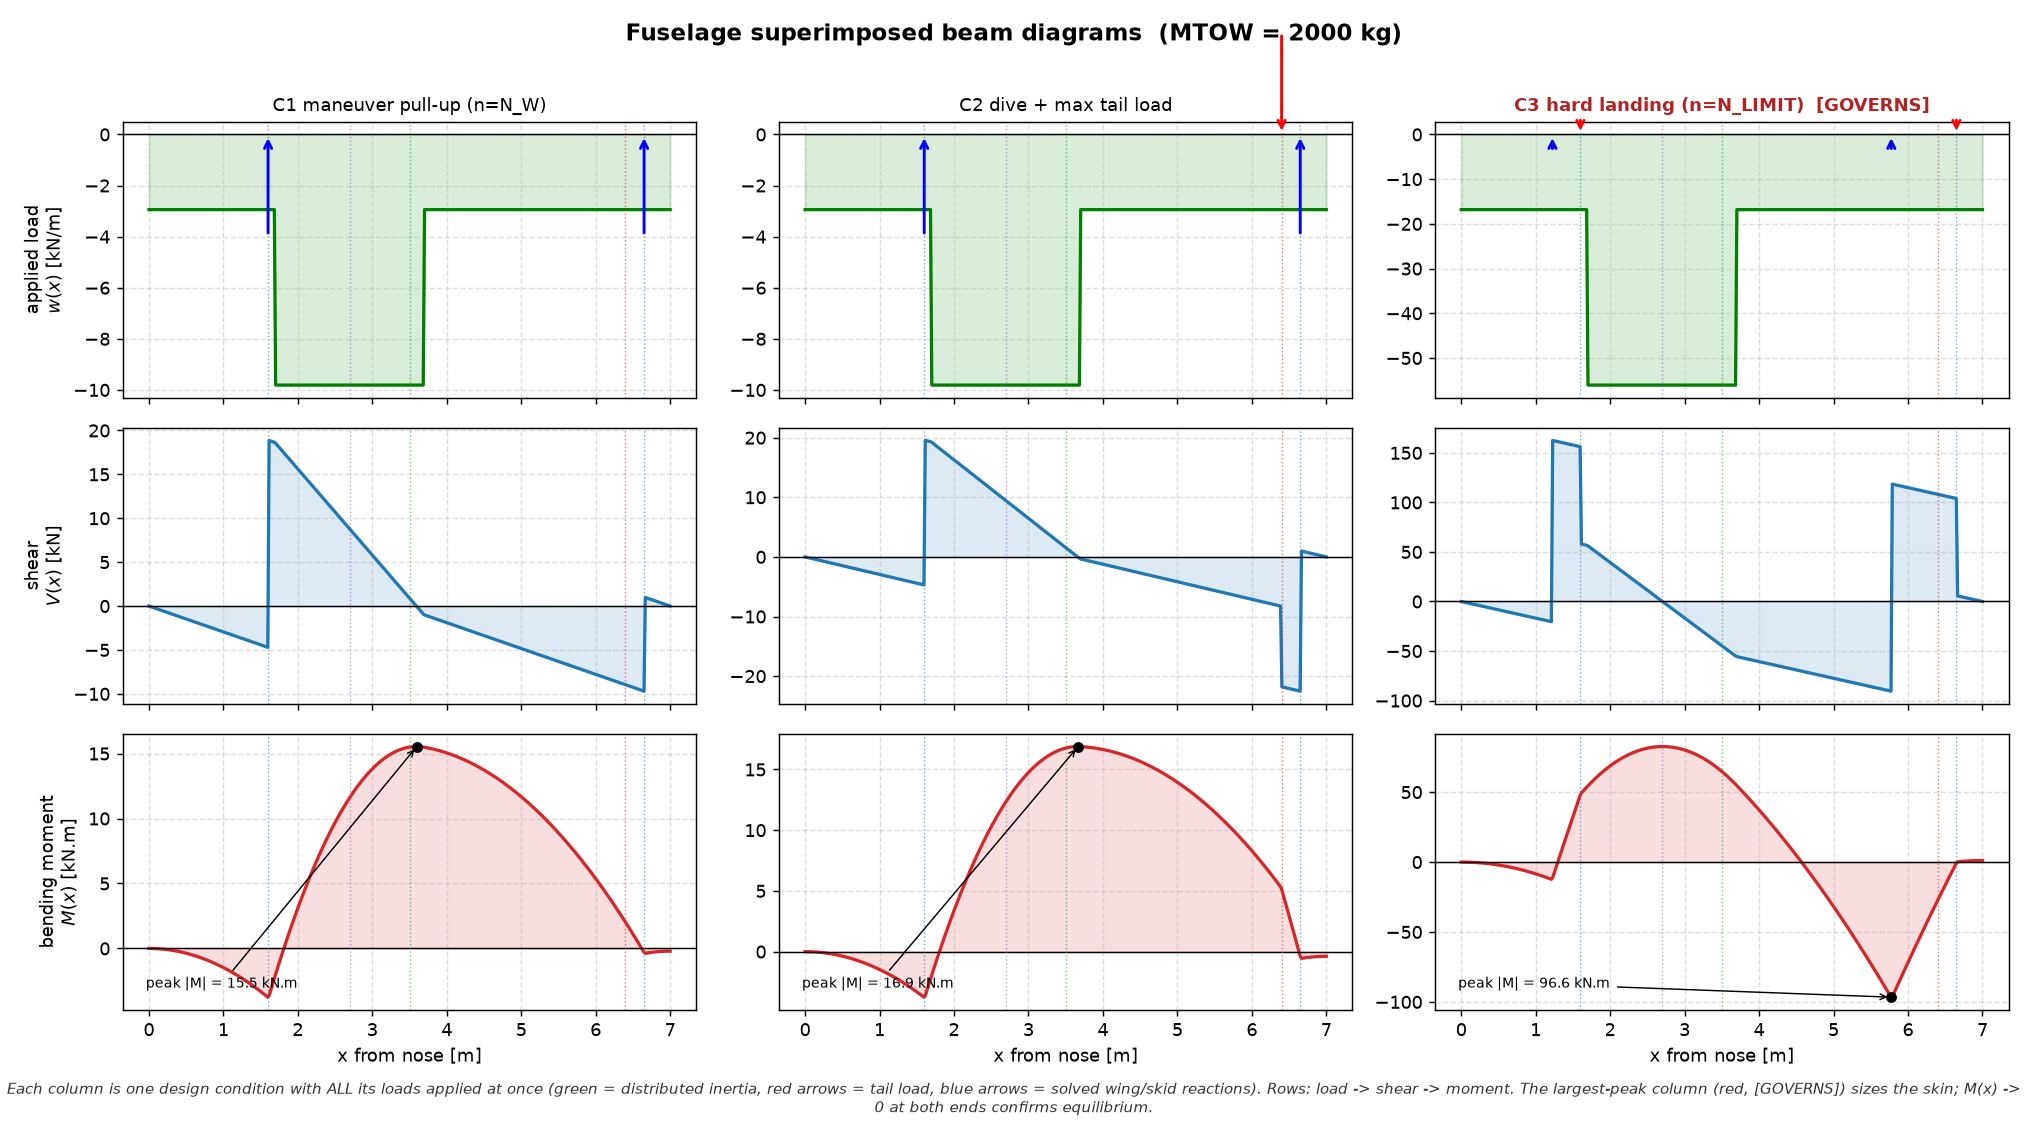
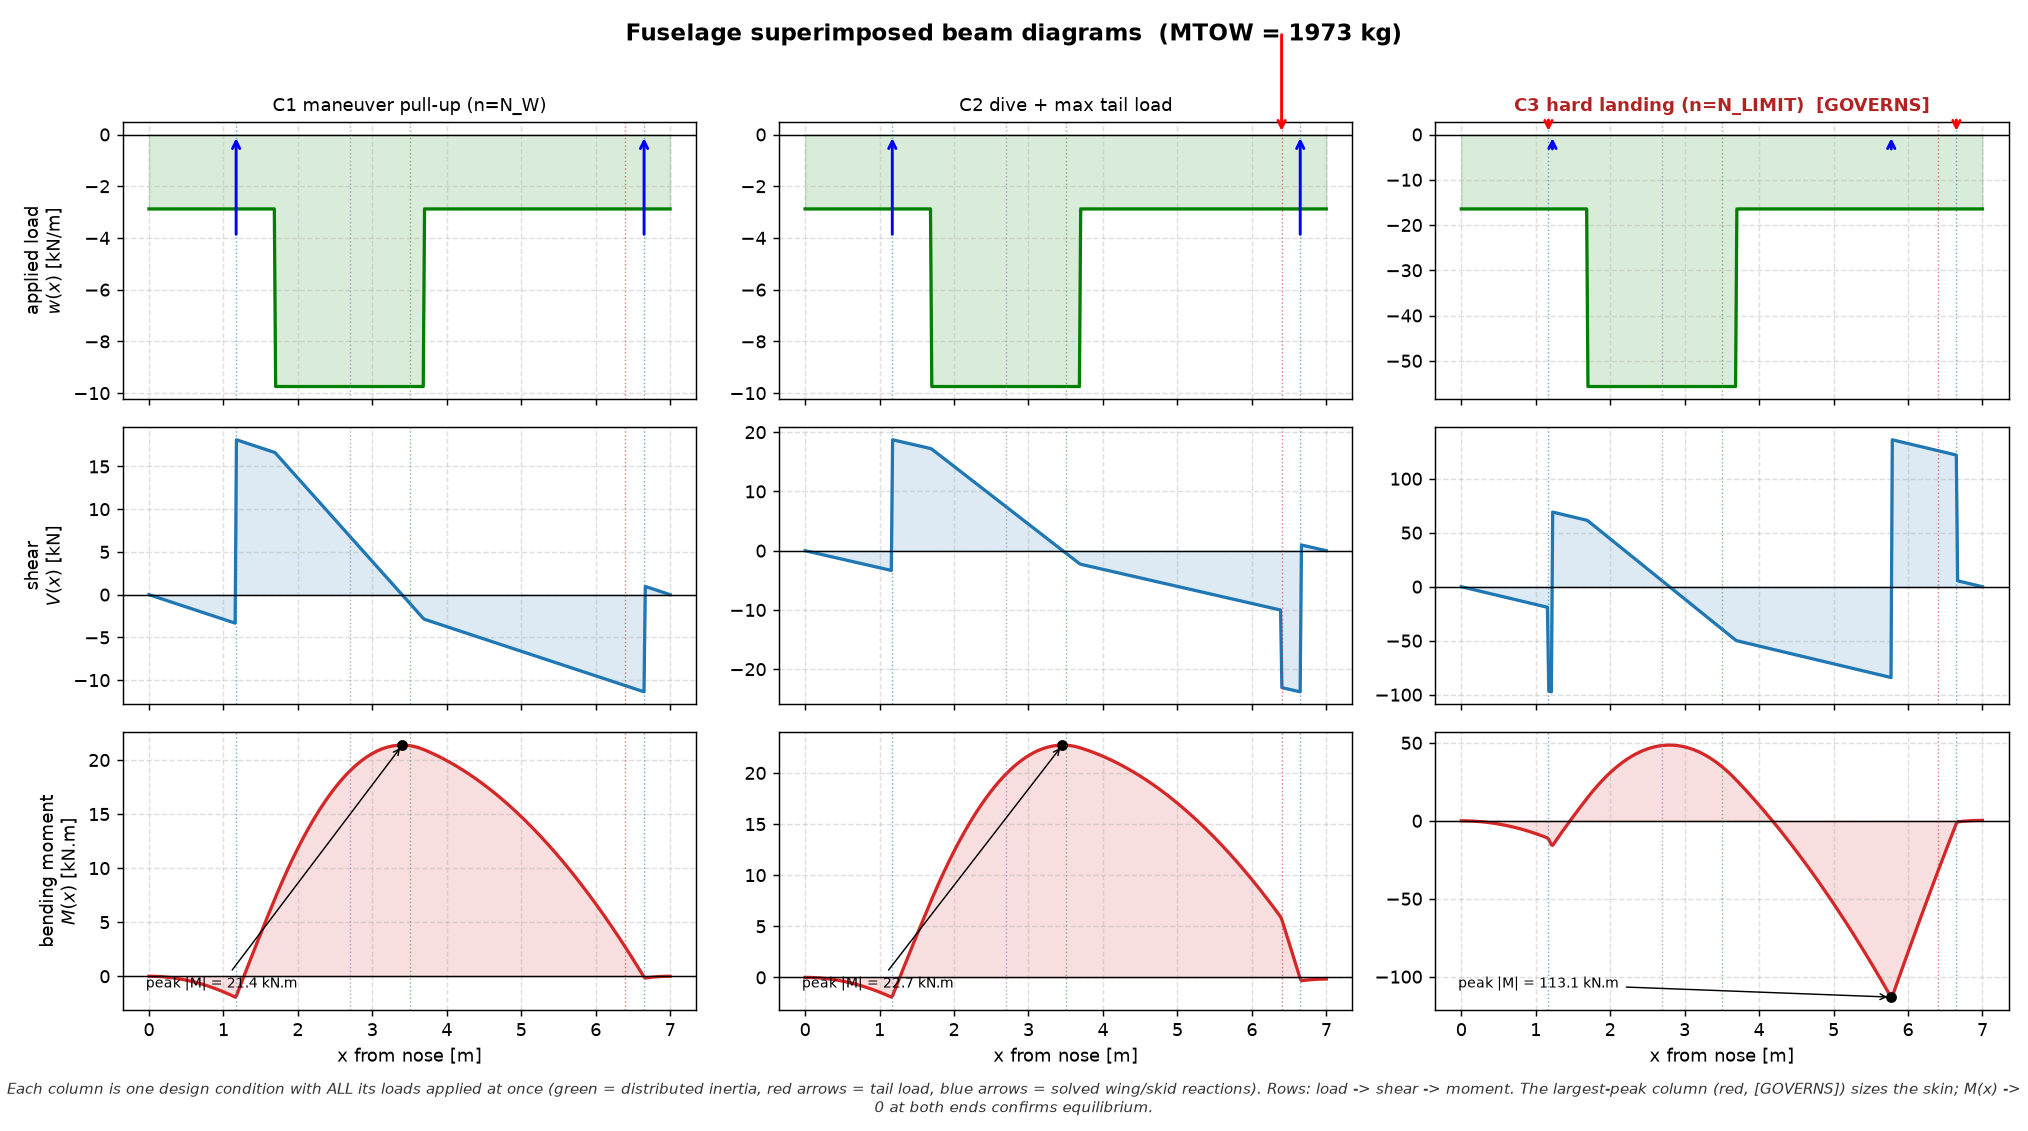
corrected diagrams hell ye

diff --git a/parameters.py b/parameters.py
@@ -799,11 +799,11 @@ _VTOL_ROTOR_RW_OFFSET     = 1.35    # [m] x_vtol_rotor_rw      - x_ac_aw
 # IMPORT-TIME SEEDS. The optimiser path overrides them per-evaluation via the
 # mmoi_overrides bridge in stability_eval.evaluate_stability so they track the
 # wing-LEMAC masters; the seeds equal the baseline geometry for standalone callers.
-X_WING_F     = AerodynamicCoefficients.x_ac_fw                       # [m]  front-wing CG ~ x_LEMAC (vd: 1.0) + 0.4*MAC  PLACEHOLDER
+X_WING_F     = WingGeometry.x_LEMAC_fw + _AC_OFFSET_FW               # [m]  front-wing AC station, DERIVED from the (override-aware) LEMAC master (mirrors stability_eval._resolve_dependents) so standalone callers (fuselage sizing, MMOI) track x_LEMAC_fw instead of the stale baseline seed
 Z_WING_F     = WingGeometry.z_w_fw       # [m]  low-mounted front wing
 WING_STAGGER = WingGeometry.stagger      # [m]  longitudinal distance front -> rear wing
 H_GAP_WINGS  = WingGeometry.gap          # [m]  vertical gap between wing planes; tip-plate height
-X_WING_R     = AerodynamicCoefficients.x_ac_aw   # [m]  rear-wing CG station (derived)
+X_WING_R     = WingGeometry.x_LEMAC_aw + _AC_OFFSET_AW   # [m]  rear-wing AC station, DERIVED from the LEMAC master (= seed when x_LEMAC_aw is not overridden)
 Z_WING_R     = WingGeometry.z_w_aw       # [m]  high rear wing (= z_w_fw + gap)
 
 # Front-wing vertical placement range from the fuselage-centreline datum (z up,

diff --git a/class_II_sizing/fuselage_sizing_plots.py b/class_II_sizing/fuselage_sizing_plots.py
@@ -57,8 +57,20 @@ from parameters import (
 )
 from class_II_sizing.mass_components import fuselage_mass
 
+
+def _design_mtow(fallback=2000.0):
+    """Live converged MTOW [kg] of the active design (honours the chosen_design.json
+    override) so the figures are drawn at the real design point, not a fixed stand-in.
+    Falls back to ``fallback`` if the converged state cannot be loaded."""
+    try:
+        from class_II_sizing.mtow_sizing import load_final_design_state
+        return float(load_final_design_state()["mtow"])
+    except Exception:
+        return fallback
+
+
 OUT_DIR = PROJECT_ROOT / "class_II_sizing" / "fuselage_sizing_figures"
-MTOW_REF = 2000.0          # representative MTOW [kg] for the per-condition diagrams
+MTOW_REF = _design_mtow()   # [kg] live design MTOW for the per-condition diagrams (override-aware; 2000 kg fallback)
 
 # Key longitudinal stations to mark on every beam axis (station, label, colour).
 _STATIONS = [
